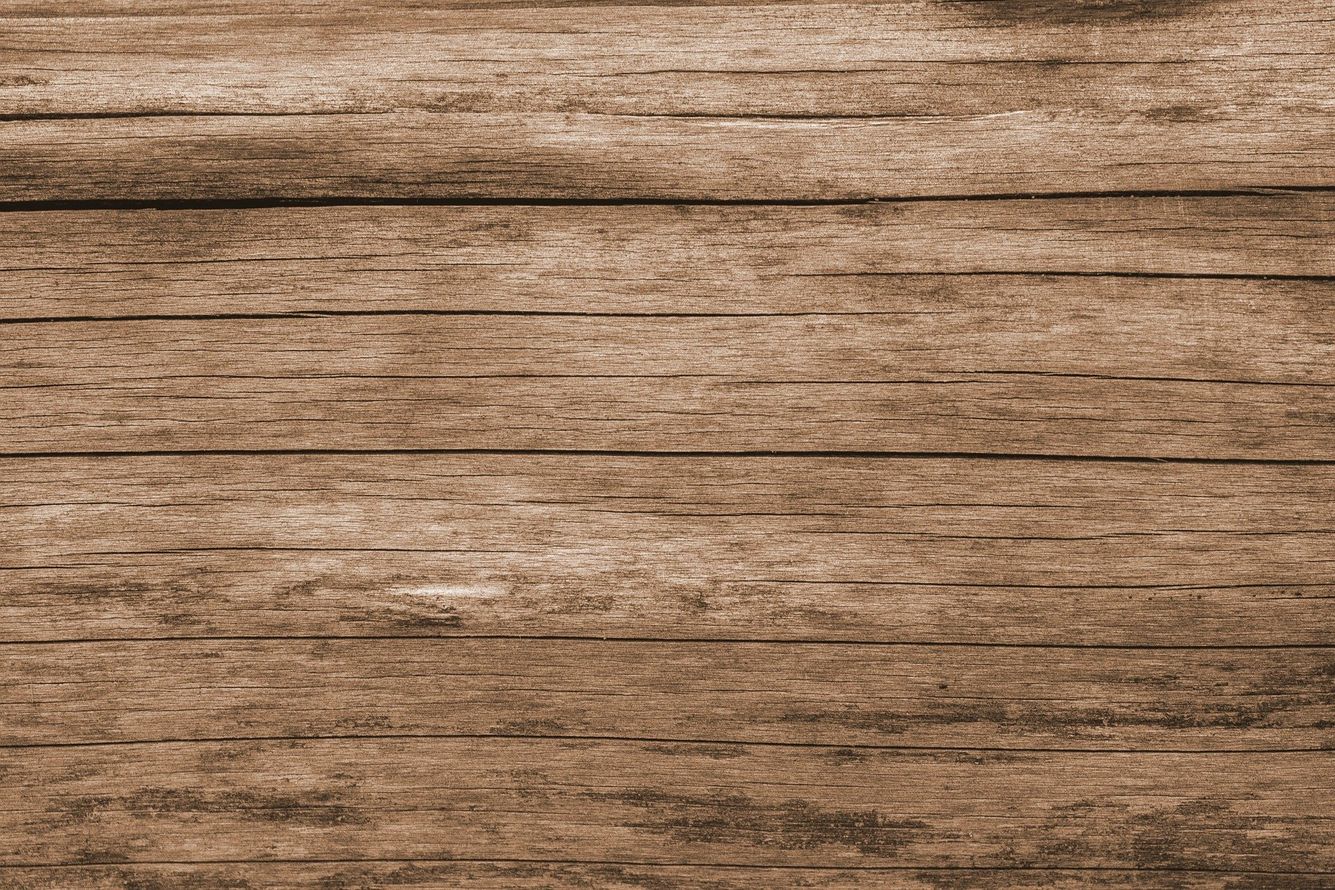
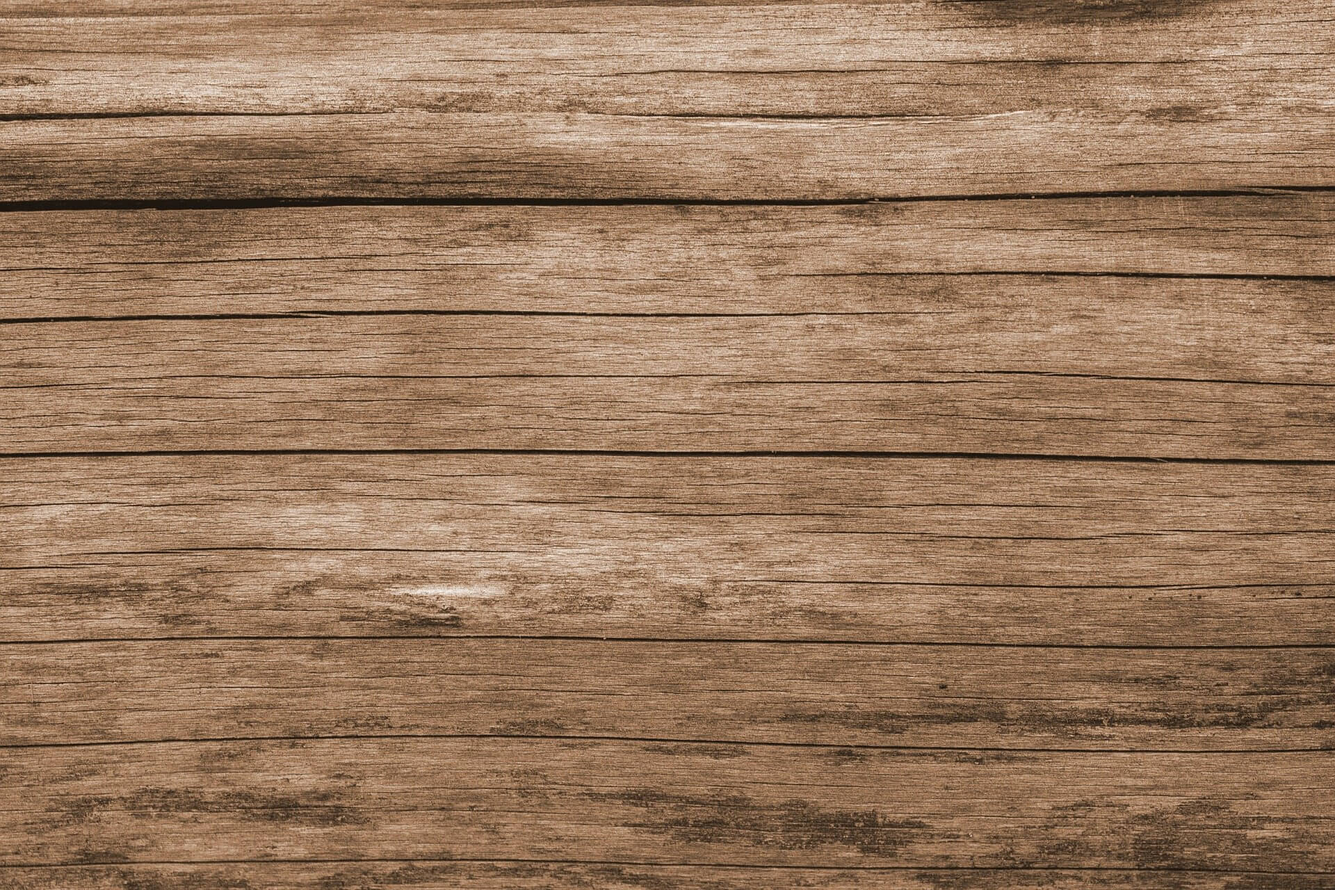
optimisation update
- toutes les images sont libres de droits - G

- toutes les images sont compressées, ou ont été supprimées

- création présentation page "mail.php"

- réorganisation du dossier physique

diff --git a/contacts.css b/contacts.css
@@ -1,3 +1,10 @@
+/*generalite*/
+legend
+{
+	font-size: 2.5em;
+}
+
+
 /*page contact*/
 #contact_page
 {
@@ -39,9 +46,6 @@
 
 	margin-bottom: 50px;
 
-	background: url(background/plaque_aluminium_dim.jpg);
-	background-size: cover;
-
 	border: 0px black solid;
 	border-radius: 50px/50px;
 
@@ -49,22 +53,44 @@
 	flex-direction: column;
 	justify-content: center;
 }
-#coordonnees_article_left h3
+#coordonnees_article_left fieldset
 {
-	font-size: 3em;
+	width: 100%;
+	height: 50%;
+
+	box-sizing: border-box;
+	padding: 10px;
 }
-#coordonnees_article_left p
+#coordonnees_article_left article
 {
-	font-size: 1.5em;
+	width: 100%;
+	height: 100%;
+
+	background-color: #999999;
 }
 #coordonnees_article_left li
 {
 	font-size: 1.5em;
-	margin-left: 1.5em;
+	color: #FFF;
+
+	list-style: none;
 }
-#coordonnees_article_left_2_h3
+#coordonnees_article_left_coordonnees_arrays_1, #coordonnees_article_left_coordonnees_arrays_2
 {
-	margin-top: 2em;
+	width: 100%;
+	height: 100%;
+
+	display: flex;
+	flex-direction: column;
+	justify-content: center;
+}
+#coordonnees_article_left_coordonnees_arrays_1 li, #coordonnees_article_left_coordonnees_arrays_2
+{
+	margin-left: 10px;
+}
+#coordonnees_article_left_coordonnees_arrays_1 li:nth-child(2)
+{
+	margin: 10px;
 }
 .google_map_figure
 {

diff --git a/style.css b/style.css
@@ -7,6 +7,10 @@
 {
 	text-align: center;
 }
+.any_decoration_list
+{
+	list-style: none;
+}
 strong
 {
 	font-weight: bold;
@@ -30,7 +34,7 @@ header a, footer h1,footer h2,footer h3,footer h4,footer p,footer li,footer lege
 }
 h1
 {
-	font-size: 1.5em;
+	font-size: 1.45em;
 }
 h2
 {
@@ -104,7 +108,7 @@ a:hover
 }
 .element_nav_clicker
 {
-	width: 33%;
+	min-width: 33%;
 	height: 90%;
 
 	display: flex;
@@ -202,10 +206,6 @@ footer ul
 	#element_nav
 	{
 		margin: 0px;
-	}
-	#element_nav h1
-	{
-		font-size: 1.5em;
 	}
 	.element_nav_clicker
 	{

diff --git a/nos_realisations.css b/nos_realisations.css
@@ -16,6 +16,7 @@
 	box-sizing: border-box;
 
 	background: url(background/coupe_bois_dim.jpg);
+	background-position: center;
 	background-size: cover;
 
 	display: flex;
@@ -61,10 +62,9 @@
 	width: 100%;
 	height: 100px;
 
-	background: url(background/plancher_acier_right.jpg);
-	background-size: cover;
-
-	box-sizing: border-box;
+	background-color: #777777;
+	border-top: 2px solid black;
+	border-bottom: 2px solid black;
 
 	display: flex;
 	flex-direction: column;

diff --git a/footer.html b/footer.html
@@ -31,7 +31,7 @@
 
 			<figure id="footer_ABH_copyright">
 				<h2>ABH est une marque déposée</h2>
-				<img src="pictures/logo_nav_mini.png" id="footer_logo">
+				<img src="realisation/logo_nav_mini.png" id="footer_logo">
 			</figure>
 		</div>
 	</footer>

diff --git a/header.html b/header.html
@@ -2,7 +2,7 @@
 <html>
 <body>
 	<nav id="nav">
-		<img src="pictures/logo_nav_mini.png" id="nav_logo">
+		<img src="realisation/logo_nav_mini.png" id="nav_logo">
 
 		<div id="element_nav">
 			<div class="element_nav_clicker">

diff --git a/mail.php b/mail.php
@@ -7,26 +7,31 @@
 </head>
 <body>
     <?php include("header.html");?>
+    <!--partie principale-->
+    <div style="position: relative; top: 100px; width: 100%; min-height: 900px; display: flex; flex-direction: column;">
+        <div style="width: 100%; height: 600px; display: flex; flex-direction: column; align-items: center; justify-content: center; background-color: #999999;">
+            <?php
+            $final_message = 'Message envoye depuis la page Contact de monsite.fr
 
-    <div style="position: relative; top: 100px; width: 100%; height: 100%; display: flex; justify-content: center;">
-        <?php
-        $final_message = 'Message envoye depuis la page Contact de monsite.fr
-        
-        Nom : ' . $_POST['nom'] .'
-        Prenom : ' . $_POST['prenom'] .' 
-        Email : ' . $_POST['email'] .' 
-        Telephone : ' . $_POST['telephone'] .' 
-        Adresse : ' . $_POST['adresse'] .'
-        Societe : ' . $_POST['societe'] .'
+            Nom : ' . $_POST['nom'] .'
+            Prenom : ' . $_POST['prenom'] .' 
+            Email : ' . $_POST['email'] .' 
+            Telephone : ' . $_POST['telephone'] .' 
+            Adresse : ' . $_POST['adresse'] .'
+            Societe : ' . $_POST['societe'] .'
 
-        Message : ' . $_POST['message'];
+            Message : ' . $_POST['message'];
 
 
-        $retour = mail('n.gallard129@laposte.net', 'Envoi depuis la page Contact', $final_message, 'From : page contact');
-        if ($retour) {
-            echo '<p>Votre message a bien été envoyé.</p>';
-        }
-        ?> 
+            $retour = mail('n.gallard129@laposte.net', 'Envoi depuis la page Contact', $final_message, 'From : page contact');
+            if ($retour) {
+                echo '<p style="white; color: black; text-shadow: none; font-size: 1.5em; width: 50%; height: 2em; text-align: center;">Votre message a bien été envoyé.</p>
+                <a href="contacts.php" style="white; color: black; text-shadow: none; font-size: 1.5em; width: 50%; height: 2em; text-align: center";>Revenir à la page des contacts</a>';
+            }
+            ;?>
+        </div>
+
+        <?php include("footer.html"); ?>    
     </div>
 </body>
 </html>

diff --git a/contacts.php b/contacts.php
@@ -18,25 +18,29 @@
 			<!--section info + google map-->
 			<div id="left_side">
 				<!--section pour coordonnées-->
-				<article id="coordonnees_article_left">
-					<h2>COORDONNÉES</h2>
-					<p>
-						<strong>adresse :</strong> 26 rue de la Chasse à Eaux 50110 Cherbourg-en-Cotentin / Tourlaville<br/>
-						<strong>numéro :</strong> 07.52.59.14.46<br/>
-						<strong>mail :</strong> Menuiserie.abh@outlook.fr<br/>
-					</p>
-
-					<h2 id="coordonnees_article_left_2_h3">HORAIRES D'OUVERTURE</h2>
-						<ul>
-							<li><strong>Lundi à Jeudi :</strong> 8H00-18H00<br/></li>
-							<li><strong>Vendredi :</strong> 8H00-17H00<br/></li>
-							<li><strong>Fermé le week-end</strong></li>
-						</ul>
-						<p>
-						<strong>Les horaires fluctuent en fonction des poses et rendez-vous extérieurs</strong>
-							
-						</p>
-				</article>
+				<form id="coordonnees_article_left">
+					<fieldset>
+						<legend>COORDONNÉES</legend>
+						<article>
+							<ul id="coordonnees_article_left_coordonnees_arrays_1">
+								<li><strong>adresse :</strong> 26 rue de la Chasse à Eaux 50110 Cherbourg-en-Cotentin / Tourlaville</li>
+								<li><strong>numéro :</strong> 07.52.59.14.46</li>
+								<li><strong>mail :</strong> Menuiserie.abh@outlook.fr</li>
+							</ul>	
+						</article>
+					</fieldset>
+					<fieldset>
+						<legend>HORAIRES D'OUVERTURE</legend>
+						<article>
+							<ul id="coordonnees_article_left_coordonnees_arrays_2">
+								<li><strong>Lundi à Jeudi :</strong> 8H00-18H00<br/></li>
+								<li><strong>Vendredi :</strong> 8H00-17H00<br/></li>
+								<li><strong>Fermé le week-end</strong></li>
+								<li></br><strong>Les horaires fluctuent en fonction des poses et rendez-vous extérieurs</strong></li>
+							</ul>
+						</article>
+					</fieldset>
+				</form>
 				
 				<!--google map-->
 				<figure class="google_map_figure">

diff --git a/index.php b/index.php
@@ -59,7 +59,7 @@
 				<!--1er partie sur les véhicules-->
 				<div id="compagny_section_1">
 					<aside>
-						<figure style="background-image: url(nos_services/gravage_decoupe.jpg); background-size: cover; background-position: center;">
+						<figure style="background-image: url(realisation/autre/gravage_decoupe.jpg); background-size: cover; background-position: center;">
 
 							<figcaption>Découpe sur machine à commandes numériques</figcaption>
 						</figure>
@@ -81,7 +81,7 @@
 						</p>
 					</article>
 					<aside>
-						<figure style="background-image: url(realisation/real_3/meuble_1.jpg); background-size: cover; background-position: center;">
+						<figure style="background-image: url(realisation/real_2/meuble_1.jpg); background-size: cover; background-position: center;">
 						
 							<figcaption>Aménagement personnalisé</figcaption>
 						</figure>
@@ -105,7 +105,7 @@
 				
 					<figcaption>Habillage protection intérieur de véhicules</figcaption>
 				</figure>
-				<figure style="background-image: url(nos_services/gravage_decoupe.jpg);">
+				<figure style="background-image: url(realisation/autre/gravage_decoupe.jpg);">
 				
 					<figcaption>Découpe de panneaux et gravages</figcaption>
 				</figure>

diff --git a/nos_realisations.php b/nos_realisations.php
@@ -41,13 +41,13 @@
 		<!--tous les realisations-->
 		<div id="realisation_page_realisations">
 			<!--1ère ligne-->
-			<figure style="background-image: url(realisation/real_1/arriere_good.jpg)";>
+			<figure style="background-image: url(realisation/real_1/arriere.jpg)";>
 				<figcaption>Véhicule de loisir</figcaption>
 			</figure>
 			<figure style="background-image: url(realisation/real_2/arriere.jpg)";>
 				<figcaption>Aménagement professionnel</figcaption>
 			</figure>
-			<figure style="background-image: url(realisation/real_4/arriere_good.jpg)">
+			<figure style="background-image: url(realisation/real_3/arriere.jpg)">
 				<figcaption>Pose vitrage</figcaption>
 			</figure>
 			<!--2ère ligne-->
